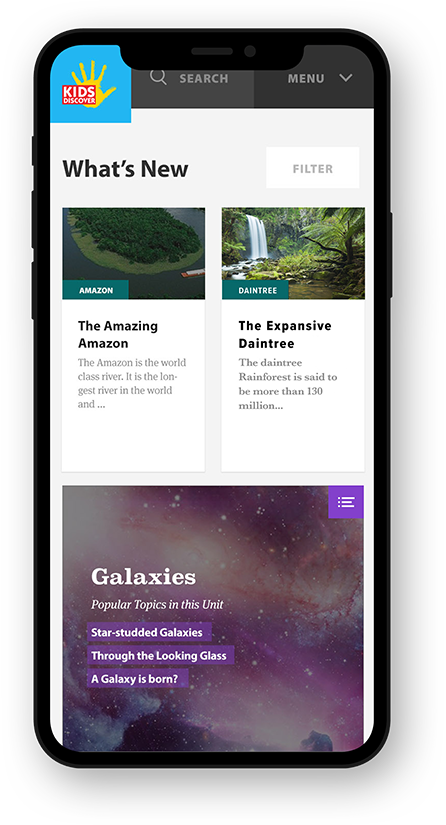
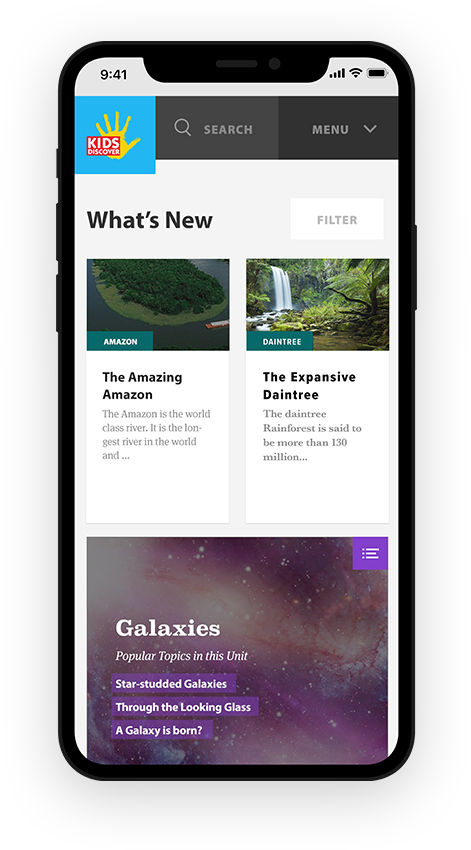
Mobile images for KD should be good.

diff --git a/src/templates/case-studies/kids-discover.js b/src/templates/case-studies/kids-discover.js
@@ -3,7 +3,8 @@ import teacherClassRom from '../../../static/img/case-studies/kids-discover/teac
 import magazines from '../../../static/img/case-studies/kids-discover/magazines.png';
 import phone from '../../../static/img/case-studies/kids-discover/phone.png';
 import teacherStudents from '../../../static/img/case-studies/kids-discover/teacher-students.png';
-import tabletPencil from '../../../static/img/case-studies/kids-discover/tablet-pencil.png';
+import applePencil from '../../../static/img/case-studies/kids-discover/apple-pencil.png';
+import homePageFeed from '../../../static/img/case-studies/kids-discover/homepage-feed.png';
 import collage from '../../../static/img/case-studies/kids-discover/collage.png';
 import dotGrid from '../../../static/img/case-studies/kids-discover/dot-grid.png';
 import studentHomework from '../../../static/img/case-studies/kids-discover/student-homework.png';
@@ -12,6 +13,7 @@ import discoverMap from '../../../static/img/case-studies/kids-discover/discover
 import cubeDoodle from '../../../static/img/case-studies/kids-discover/cube-doodle.png';
 import editorScreens from '../../../static/img/case-studies/kids-discover/editor-screens.png';
 import siteHomePage from '../../../static/img/case-studies/kids-discover/site-home-page.png';
+import triangleDoodle from '../../../static/img/case-studies/kids-discover/triangle_doodle.png';
 
 
 const KidsDiscover = class extends React.Component {
@@ -93,11 +95,29 @@ const KidsDiscover = class extends React.Component {
                         </div>
                     </div>
                 </div>
-                <div className = "m-case-study-page-content__image-container -kd-gradient">
-                    <div className = "m-case-study-page-content__image">
-                        <img src = { tabletPencil } />
+                <div className = "m-case-study-page-content__section -desktop-only -gradient">
+                    <div className = "o-rhythm__row -flex-wrap__no-wrap">
+                        <div className = "o-rhythm__col -justify-center">
+                            <div className = "kd-image -home-page-feed">
+                                <img src = { homePageFeed } />
+                            </div>
+                            <div className = "kd-image -apple-pencil">
+                                <img src = { applePencil } />
+                            </div>
+                        </div>
                     </div>
                 </div>
+                <div className = "m-case-study-page-content__image-container -mobile-only ">
+                    <div className = "m-case-study-page-content__image -apple-pencil">
+                        <img src = { applePencil } />
+                    </div>
+                </div>
+                <div className = "m-case-study-page-content__image-container -mobile-only ">
+                    <div className = "m-case-study-page-content__image">
+                        <img src = { homePageFeed } />
+                    </div>
+                </div>
+
                 <div className = "o-rhythm__container">
                     <div className = "m-case-study-page-content__copy-section">
                         <h6 className = "content__header -mobile-only">Synthesis</h6>
@@ -129,7 +149,7 @@ const KidsDiscover = class extends React.Component {
                 </div>
                 <div className = "m-case-study-page-content__section">
                     <div className = "o-rhythm__row">
-                        <div className = "kd-image -dot-grid -absolute -desktop-only">
+                        <div className = "kd-image -dot-grid -desktop-only">
                             <img src = { dotGrid } />
                         </div>
                         <div className = "kd-image -student-homework">
@@ -163,24 +183,33 @@ const KidsDiscover = class extends React.Component {
                         <div className = "o-rhythm__row -space-between">
                             <div className = "o-rhythm__col -span-six -push-one">
                                 <div className = "m-case-study-page-content__copy-section">
-                                    <h6 className = "content__header -mobile-only">deployment &amp; Testing</h6>
+                                    <h6 className = "content__header -mobile-only">deployment &amp; testing</h6>
                                     <header className = "-push-three">time for final exams</header>
                                     <div className = "o-rhythm__row">
-                                        <h6 className = "content__header -desktop-only">deployment &amp; Testing</h6>
+                                        <h6 className = "content__header -desktop-only">deployment &amp; testing</h6>
                                         <div className = "content__copy">
                                             <p>As soon as the beta product was ready, we took it to classrooms to test. We collected feedback from students and teachers, which helped us make final product adjustments and enhancements before going to market.</p>
                                         </div>
                                     </div>
                                 </div>
                             </div>
-                            <div className = "o-rhythm__col -span-two">
+                            <div className = "o-rhythm__col">
                                 <div className = "kd-image -cube-doodle">
                                     <img src = { cubeDoodle } />
                                 </div>
                             </div>
                         </div>
-                        <div className = "kd-image -editor-screens">
-                            <img src = { editorScreens } />
+                        <div className = "m-case-study-page-content__section -margin__bottom">
+                            <div className = "o-rhythm__row">
+                                <div className = "o-rhythm__col">
+                                    <div className = "kd-image -triangle-doodle">
+                                        <img src = { triangleDoodle } />
+                                    </div>
+                                </div>
+                                <div className = "kd-image -editor-screens">
+                                    <img src = { editorScreens } />
+                                </div>
+                            </div>
                         </div>
                         <div className = "o-rhythm__row -space-between">
                             <div className = "o-rhythm__col -span-four -push-one">

diff --git a/src/assets/scss/02_molecule/_case-study-page-content.scss b/src/assets/scss/02_molecule/_case-study-page-content.scss
@@ -117,12 +117,37 @@
                 position: relative;
 
                 &.-cube-doodle {
-                    right: -116px;
-                    top: 216px;
+                    @include span-col(4);
+                    position: absolute;
+                    right: -16px;
+                    top: 320px;
+
+                    @include breakpoints("tablet") {
+                        right: -64px;
+                        top: 216px;
+                        text-align: right;
+                    }
                 }
 
                 &.-editor-screens {
                     margin-bottom: 160px;
+                    left: -76px;
+                    top: 64px;
+
+                    @include breakpoints("tablet") {
+                        top: initial;
+                        left: initial;
+                    }
+
+                    img {
+                        max-width: fit-content;
+                        width: 650px;
+
+                        @include breakpoints("tablet") {
+                            max-width: 100%;
+                            width: 100%;
+                        }
+                    }
                 }
             }
         }
@@ -155,7 +180,7 @@
 
     &__copy-section {
         position: relative;
-        padding: 80px 0;
+        padding: 80px 0 40px;
 
         @include breakpoints("tablet") {
             padding: 252px 0;
@@ -202,7 +227,7 @@
                 padding: 80px 0;
 
                 @include breakpoints("tablet") {
-                    padding: 252px 0 150px 0;
+                    padding: 252px 0 150px;
                 }
             }
         }
@@ -273,13 +298,14 @@
 
 
             &__header {
-                @include span-col(2);
+                @include span-col(12);
                 color: get-color("neutral", "medium-gray");
                 margin-bottom: 20px;
                 margin-left: 0;
                 font-weight: 600;
 
                 @include breakpoints("tablet") {
+                    @include span-col(2);
                     margin-bottom: 0;
                 }
             }
@@ -322,13 +348,10 @@
 
         &-container {
             display: flex;
+        }
 
-            &.-kd {
-
-                &-gradient {
-                    background: linear-gradient(white, #E0ECEF);
-                }
-            }
+        &.-apple-pencil {
+            margin-bottom: 48px;
         }
 
         &.-half {
@@ -375,6 +398,19 @@
     &__section {
         position: relative;
 
+        &.-gradient {
+            background: linear-gradient(white, #E0ECEF);
+        }
+
+        &.-margin {
+
+            &__bottom {
+                @include breakpoints("tablet") {
+                    margin-bottom: 160px;
+                }
+            }
+        }
+
         .kd {
 
             &-image {
@@ -406,6 +442,7 @@
                 }
 
                 &.-magazines {
+
                     img {
                         max-width: fit-content;
                         width: 650px;
@@ -417,6 +454,12 @@
                     }
                 }
 
+                &.-apple-pencil {
+                    position: absolute;
+                    top: -184px;
+                    right: 140px;
+                }
+
                 &.-phone {
                     top: -104px;
                     left: 284px;
@@ -425,6 +468,17 @@
 
                 &.-teachers-students {
                     right: -134px;
+                }
+
+                &.-triangle-doodle {
+                    @include span-col(4);
+                    position: absolute;
+                    bottom: 56px;
+
+                    @include breakpoints("tablet") {
+                        bottom: 120px;
+                        left: 44px;
+                    }
                 }
             }
         }
